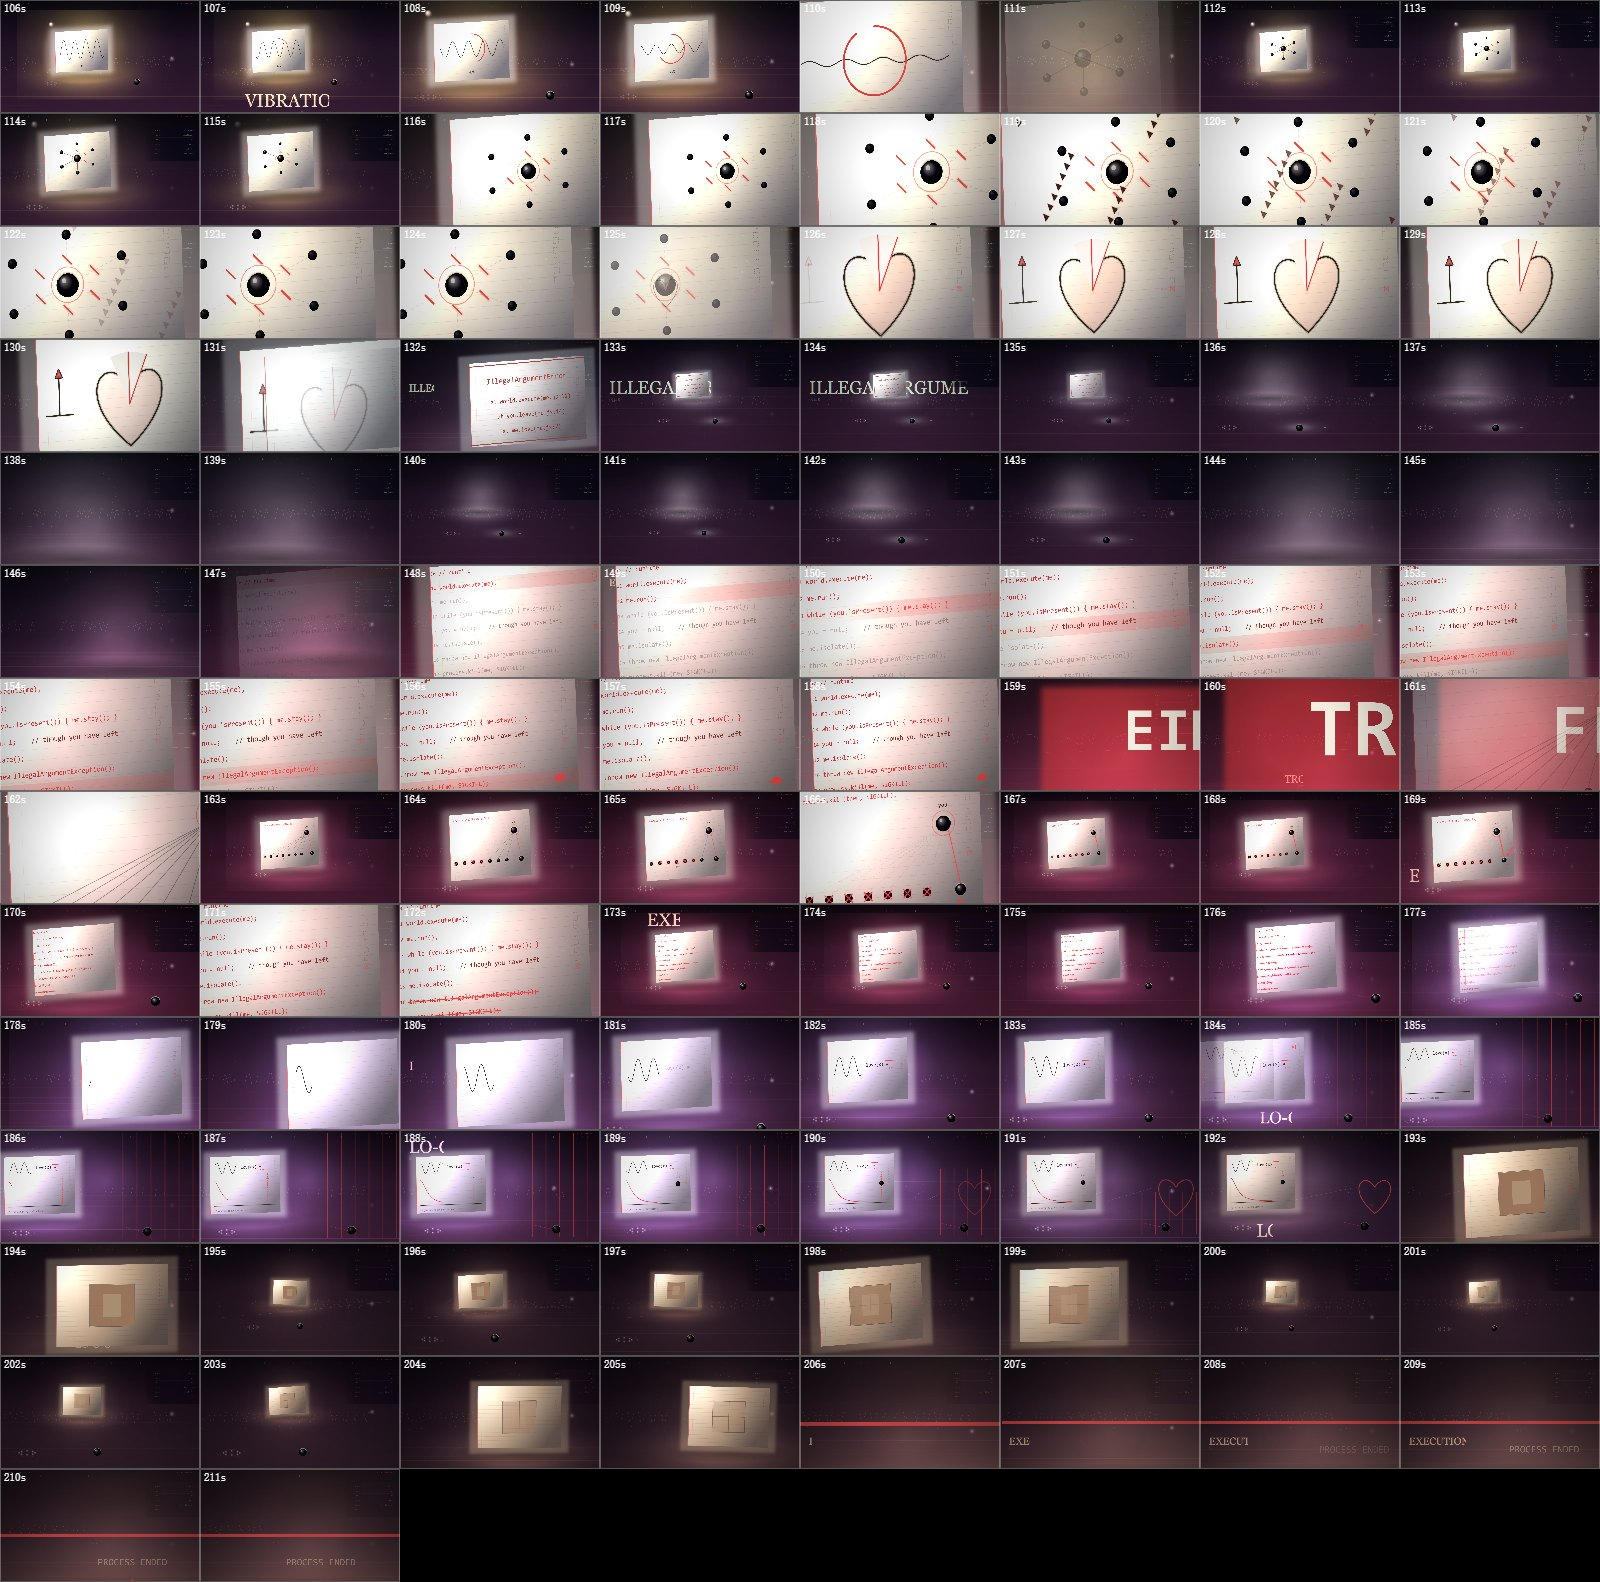
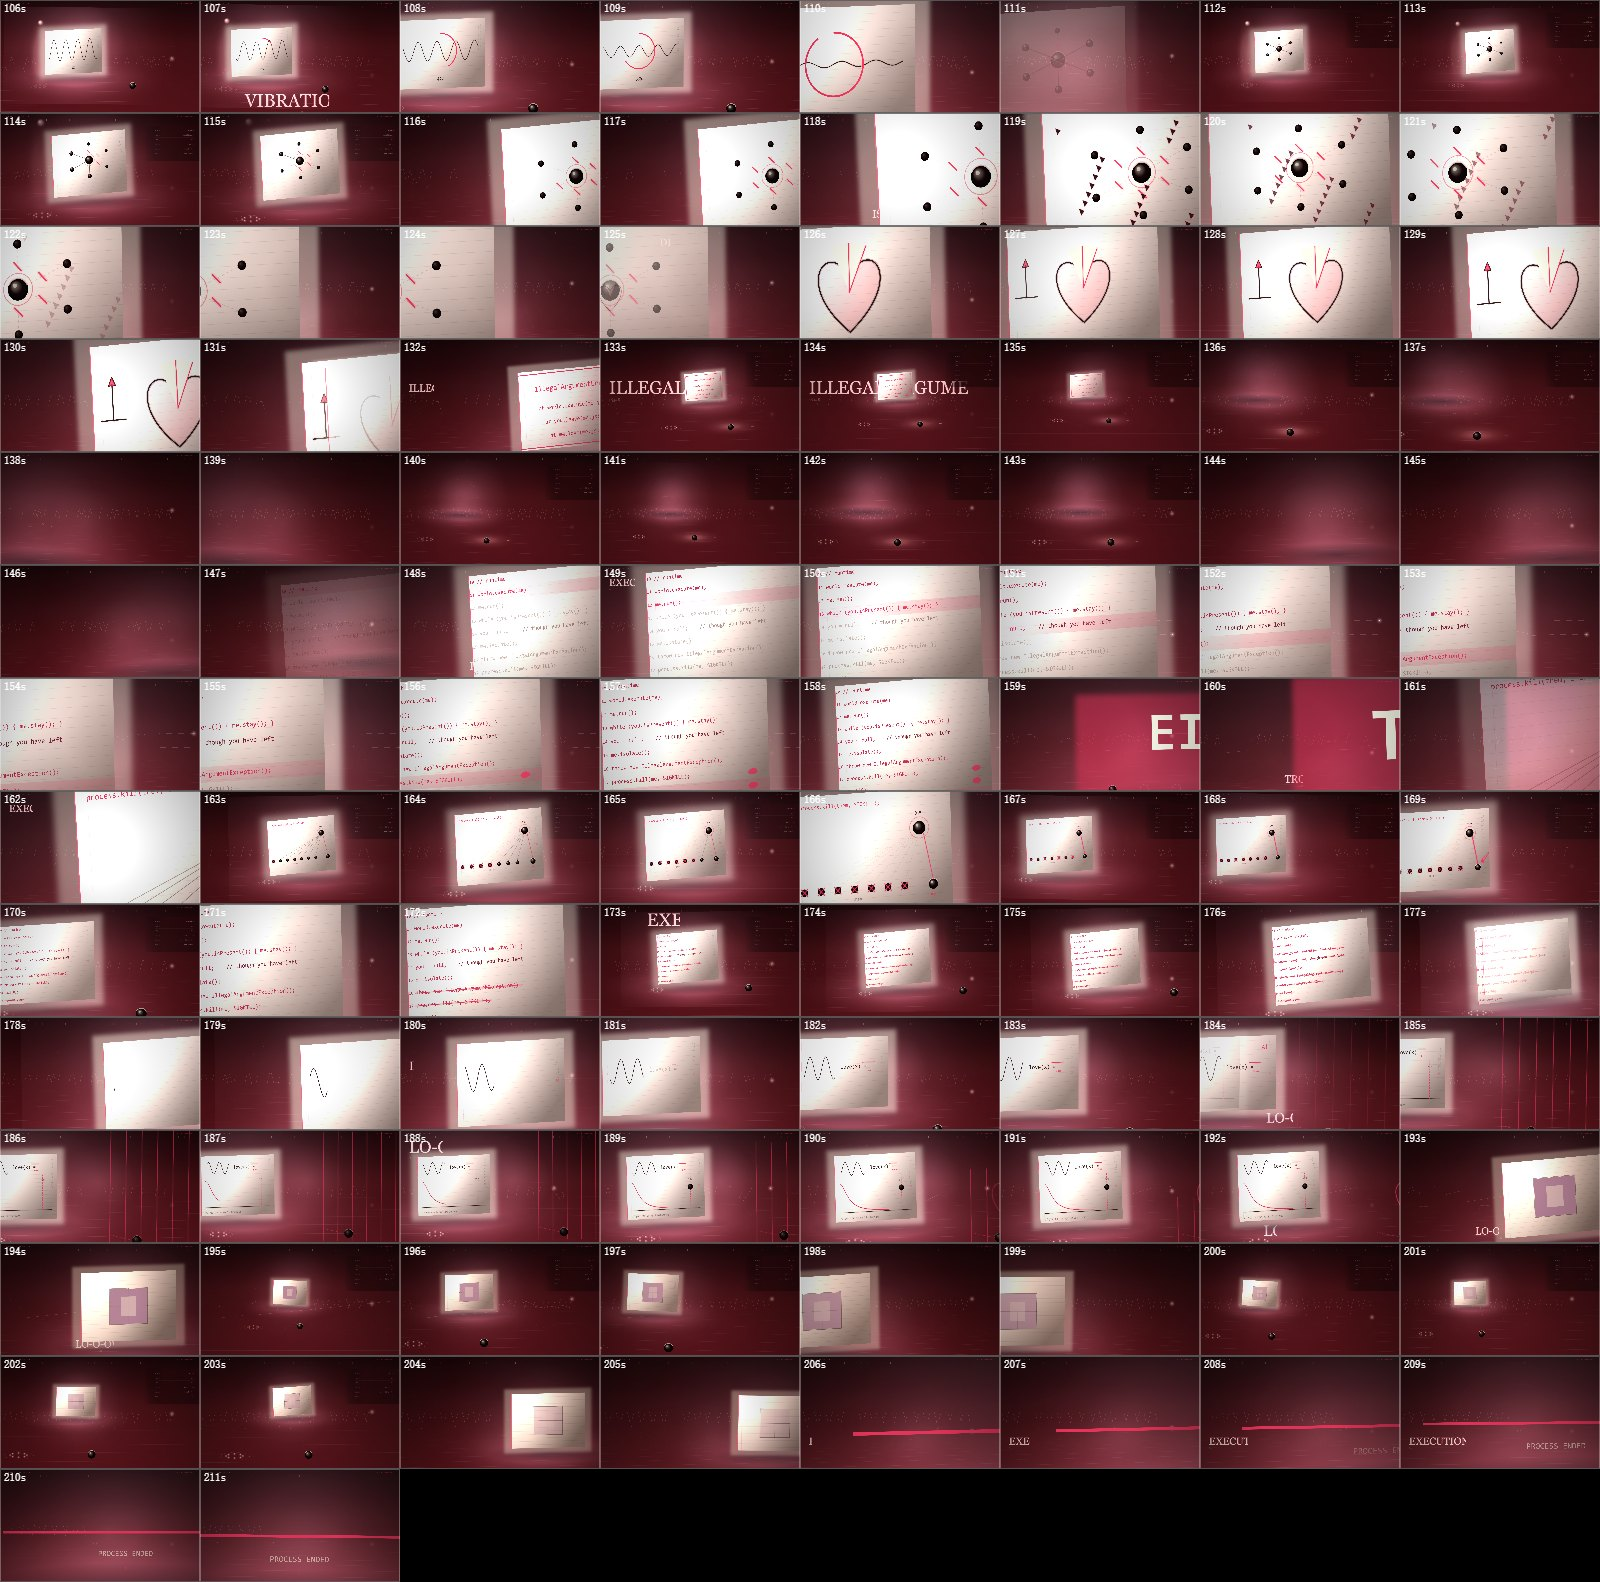
Look at the actual frames at 360 fps, and find the picture was barely moving
Every tool in verify.js reduced a frame to a handful of scalars, and scalars hide exactly the thing
that was wrong. Two new ones stop summarising: burst() captures n consecutive frames at 1080P and
keeps, per pixel, the largest change it showed between adjacent frames; strip() tiles the frames
themselves with millisecond offsets so the sequence can be read as a sequence.

Sampling the same instant at four rates settled it. Mean per-pixel change (0-765) and the share of
pixels moving more than 24: 360 fps 0.63 / 0.32%, 120 fps 1.68 / 0.64%, 30 fps 6.0 / 1.74%, 8 fps
14.1 / 4.7%. It scales with dt, so it is not noise - it is the absence of motion. Between adjacent
frames 99.7% of the picture was frozen. I had been reading "motion mean 0.5" as a virtue, stability;
what it measured was a slow zoom on a photograph.

So the camera now travels: one sin(u*PI) per four-bar phrase, crossing 10% of the room's width,
pushing in 20%, lifting 3.5% of the room height, with 1.3 degrees of roll, alternating direction
phrase to phrase. sin is zero at both seams so nothing can jump. The roll is applied to the hall as
well as the sheet (with 1.06 overscan to cover the corner swing), because a level horizon under a
leaning sheet reads as a crooked object rather than a moving camera.

Reading the macro strips found the second problem: blown up, the ledger's grey boxes, the telemetry
column, the dust and the diagram all carry the same visual weight, so the close-up had no focus and
[…]

diff --git a/analysis/verify.js b/analysis/verify.js
@@ -341,6 +341,91 @@ function smoke() {
   return errs.length ? errs : ['ok'];
 }
 
-window.VERIFY = { start, status, stats, report, timbre, flickers, shot, smoke };
+/* ---------------- looking, at the frame level ---------------- */
+/* Everything else in this file reduces a frame to a handful of scalars, and scalars hide the
+   specific thing that ruins a picture: a layer that strobes in one corner contributes almost
+   nothing to a whole-frame mean. These two functions stop summarising. Both render the stage at
+   1080P and step the clock at 360 fps, so adjacent frames are 2.8 ms apart - closer than any
+   display will ever show the film. */
+function stage1080() {
+  const cv = document.getElementById('stage');
+  cv.style.cssText = 'position:fixed;left:0;top:0;width:1920px;height:1080px';
+  dispatchEvent(new Event('resize'));
+  return cv;
+}
+function grab(cv, scratch) {
+  const q = scratch.getContext('2d');
+  q.clearRect(0, 0, scratch.width, scratch.height);
+  q.drawImage(cv, 0, 0);
+  return q.getImageData(0, 0, scratch.width, scratch.height).data;
+}
+
+/* For every pixel, the largest change it showed between any two adjacent frames of the burst. */
+async function burst(t0, n, name, rate) {
+  rate = rate || 360;
+  const cv = stage1080(), W = cv.width, H = cv.height, N = W * H;
+  const scratch = document.createElement('canvas'); scratch.width = W; scratch.height = H;
+  const acc = new Float32Array(N);
+  let prev = null;
+  for (let i = 0; i < n; i++) {
+    const t = t0 + i / rate;
+    window.MV.pin(t); window.MV.step(t * 1000);
+    const d = grab(cv, scratch);
+    if (prev) for (let p = 0, q = 0; p < N; p++, q += 4) {
+      const v = Math.abs(d[q] - prev[q]) + Math.abs(d[q + 1] - prev[q + 1]) + Math.abs(d[q + 2] - prev[q + 2]);
+      if (v > acc[p]) acc[p] = v;
+    }
+    prev = d.slice();
+  }
+  /* the heat map, plus a grid so the answer is also a number and not only a picture */
+  const out = document.createElement('canvas'); out.width = W; out.height = H;
+  const g = out.getContext('2d'), im = g.createImageData(W, H);
+  let sum = 0, peak = 0, hist = new Float32Array(40), gx = 8, gy = 5;
+  const cell = new Float32Array(gx * gy), cellN = new Float32Array(gx * gy);
+  for (let p = 0; p < N; p++) {
+    const v = acc[p]; sum += v; if (v > peak) peak = v;
+    hist[Math.min(39, v >> 2)]++;
+    const x = p % W, y = (p / W) | 0;
+    const ci = ((y * gy / H) | 0) * gx + ((x * gx / W) | 0);
+    cell[ci] += v; cellN[ci]++;
+    const c = Math.min(255, v * 5);
+    const o = p * 4;
+    im.data[o] = c; im.data[o + 1] = Math.min(255, c * 0.45); im.data[o + 2] = 0; im.data[o + 3] = 255;
+  }
+  g.putImageData(im, 0, 0);
+  const blobs = [];
+  for (let i = 0; i < cell.length; i++) if (cellN[i]) {
+    blobs.push({ cell: (i % gx) + ',' + ((i / gx) | 0), mean: +(cell[i] / cellN[i]).toFixed(1) });
+  }
+  blobs.sort((a, b) => b.mean - a.mean);
+  const blob = await new Promise((r) => out.toBlob(r, 'image/jpeg', 0.93));
+  await fetch('/save-' + name, { method: 'POST', body: blob });
+  return { t0: t0, n: n, rate: rate, px: W + 'x' + H, mean: +(sum / N).toFixed(1), peak: peak | 0,
+           hotCells: blobs.slice(0, 5), quietPct: +(hist[0] / N * 100).toFixed(1) };
+}
+
+/* The consecutive frames themselves, tiled, so the sequence can actually be read. */
+async function strip(t0, n, name, rate, cols) {
+  rate = rate || 360; cols = cols || 3;
+  const cv = stage1080(), W = cv.width, H = cv.height;
+  const scratch = document.createElement('canvas'); scratch.width = W; scratch.height = H;
+  const cw = 640, ch = 360, rows = Math.ceil(n / cols);
+  const out = document.createElement('canvas'); out.width = cols * cw; out.height = rows * ch;
+  const g = out.getContext('2d');
+  g.fillStyle = '#000'; g.fillRect(0, 0, out.width, out.height);
+  for (let i = 0; i < n; i++) {
+    const t = t0 + i / rate;
+    window.MV.pin(t); window.MV.step(t * 1000);
+    g.drawImage(cv, (i % cols) * cw, ((i / cols) | 0) * ch, cw, ch);
+    g.strokeStyle = '#2a2a2a'; g.strokeRect((i % cols) * cw, ((i / cols) | 0) * ch, cw, ch);
+    g.fillStyle = '#fff'; g.font = '18px ui-monospace,monospace';
+    g.fillText('+' + (i / rate * 1000).toFixed(1) + 'ms', (i % cols) * cw + 8, ((i / cols) | 0) * ch + 24);
+  }
+  const blob = await new Promise((r) => out.toBlob(r, 'image/jpeg', 0.93));
+  await fetch('/save-' + name, { method: 'POST', body: blob });
+  return { t0: t0, n: n, ms: (n / rate * 1000).toFixed(1), sheet: out.width + 'x' + out.height };
+}
+
+window.VERIFY = { start, status, stats, report, timbre, flickers, shot, smoke, burst, strip };
 return 'VERIFY ready';
 })();

diff --git a/mv/mv.js b/mv/mv.js
@@ -166,7 +166,12 @@ function applyCamera(g, fr, t) {
   const scale = fitScale() * fr.z * breath * (1 + accent) * (1 + (fr.shake || 0) * punch * 0.012);
   let sx = 0, sy = 0;
   if (fr.shake) { const a = fr.shake * punch * 13; sx = Math.sin(t * 33.7) * a; sy = Math.cos(t * 27.1) * a; }
-  g.setTransform(scale, 0, 0, scale, W / 2 - fr.x * scale + sx, HH / 2 - fr.y * scale + sy);
+  /* screen = centre + R(roll) * scale * (design - cam), so the roll is the camera leaning, not the
+     picture being tilted after the fact */
+  const r = fr.roll || 0, ca = Math.cos(r), sa = Math.sin(r);
+  g.setTransform(scale * ca, scale * sa, -scale * sa, scale * ca,
+                 W / 2 - scale * (ca * fr.x - sa * fr.y) + sx,
+                 HH / 2 - scale * (sa * fr.x + ca * fr.y) + sy);
 }
 const WIDE = { z: 1.05, x: DW / 2, y: DH / 2 };
 function frameOf(sc, k, t) {
@@ -258,6 +263,9 @@ function updatePalette(t, dt) {
 function drawRoom(t, cam) {
   const g = bx;
   g.setTransform(1, 0, 0, 1, 0, 0);
+  /* the hall rolls with everything else, or the horizon stays level while the sheet leans and the
+     roll reads as a crooked object instead of a moving camera; 1.06 covers the corner swing */
+  if (cam.roll) { g.translate(W / 2, HH / 2); g.rotate(cam.roll); g.scale(1.06, 1.06); g.translate(-W / 2, -HH / 2); }
   /* The hall is drawn in **screen** space, deliberately outside the sheet's camera matrix. Until
      now the floor belonged to the design space, so it slid along with the paper and the two could
      never disagree — and a room where nothing disagrees about the camera is a flat picture. Drawn
@@ -322,7 +330,7 @@ function cameraAt(t) {
   const ed = editAt(t);
   if (ed && ed.mode !== 0) {
     const S = window.SHEET;
-    if (ed.mode === 1 && S) { f = { z: f.z * 2.35, x: S.x + S.w / 2, y: S.y + S.h * 0.44, shake: f.shake }; }
+    if (ed.mode === 1 && S) { f = { z: f.z * 1.85, x: S.x + S.w / 2, y: S.y + S.h * 0.46, shake: f.shake }; }
     else if (ed.mode === 2) { f = { z: f.z * 0.72, x: DW * 0.5, y: DH * 0.52, shake: f.shake }; }
     if (t - ed.at < 0.06) f.editHard = true;
   }
@@ -350,12 +358,28 @@ function cameraFor(t) {
     camState.y += (f.y - camState.y) * a;
   }
   camStateT = t;
-  /* One slow lateral sweep per eight bars. The hall answers cam.x at 0.55x and the sheet at 1x, so
-     the two slide past each other while nothing inside either one moves — that disagreement is the
-     difference between a set and a room. Applied after the smoothing state, never fed back into it,
-     or the drift would compound itself. */
-  const drift = window.MUSIC ? Math.sin(t * Math.PI * 2 / (32 * 60 / window.MUSIC.meta.bpm)) * DW * 0.055 : 0;
-  lastCam = { z: camState.z, x: camState.x + drift, y: camState.y, shake: f.shake };
+  /* Measured before this existed: at 360 fps the average pixel moved 0.63 out of 765 between
+     adjacent frames and only 0.32% of pixels moved at all. The film was a slow zoom on a
+     photograph. So every shot now travels - the camera crosses a tenth of the room, pushes in by a
+     fifth and rolls across a four-bar phrase, alternating direction so the next phrase starts where
+     this one ended. sin(u*PI) is zero at both seams, so nothing can jump, and the offsets are added
+     after the smoothing state rather than into it, or they would compound themselves. The lateral
+     sweep stays: the hall answers cam.x at 0.55x and the sheet at 1x, so the two disagree, and that
+     disagreement is what makes it a room rather than a backdrop. */
+  const bpm = window.MUSIC ? window.MUSIC.meta.bpm : 128;
+  const P = 16 * 60 / bpm;
+  const ph = Math.floor(t / P), u = (t - ph * P) / P, arc = Math.sin(u * Math.PI);
+  const dir = ph % 2 ? -1 : 1;
+  const drift = window.MUSIC ? Math.sin(t * Math.PI * 2 / (32 * 60 / bpm)) * DW * 0.055 : 0;
+  lastCam = { z: camState.z * (1 + 0.2 * arc), x: camState.x + drift + arc * DW * 0.1 * dir,
+              y: camState.y - arc * DH * 0.035, shake: f.shake,
+              roll: arc * 0.022 * dir };
+  /* The closer the camera, the fewer the layers. A 360 fps strip of the macro showed why: blown up,
+     the ledger's grey boxes, the telemetry column and the dust all sit at the same visual weight as
+     the diagram, so the close-up had no thing to look at and a dead band of room down its right
+     edge. A real camera simplifies as it pushes in; this one now does too. */
+  const ed = editAt(t);
+  window.EDIT = ed ? ed.mode : 0;
   return lastCam;
 }
 

diff --git a/mv/scenes.js b/mv/scenes.js
@@ -366,6 +366,7 @@ const GIVEN = [
 ];
 let TT = 0;
 function givings(g, L) {
+  if (window.EDIT === 1) return;      /* see dust(): a close-up keeps only what the shot is about */
   /* What stays on the sheet is the hole, not the label: the word is legible while she sings it and
      collapses afterwards into an empty dashed box, so the accumulation reads as a column of gaps
      down the edge of the page rather than as a second diagram competing with the first. */
@@ -455,6 +456,7 @@ function endPage(g) { g.restore(); g.restore(); }   /* the clip, then the board'
 
 /* dust in the beam — only where the light reaches */
 function dust(g, L, F, n) {
+  if (window.EDIT === 1) return;      /* pushed in, the motes are dirt on the lens, not atmosphere */
   const cx = L.x + L.w / 2, cy = L.y + L.h / 2;
   for (let i = 0; i < n; i++) {
     const a = (i * 2.399963) % TAU, r = Math.sqrt((i * 0.6180339887) % 1) * Math.max(L.w, L.h) * 1.15;

diff --git a/mv/line.js b/mv/line.js
@@ -269,6 +269,7 @@ function chrome(g, t, W, H, pal, F) {
   const RAIL = [[0, 29.7], [110.9, 177.24], [193, 212.4]];
   let vis = 0;
   for (const r of RAIL) vis = Math.max(vis, Math.min(clamp((t - r[0]) / 0.9, 0, 1), clamp((r[1] - t) / 0.9, 0, 1)));
+  if (window.EDIT === 1) vis = 0;      /* the readout is a wide-shot element; pushed in it is clutter */
   g.save();
   g.globalAlpha = vis;
   const y0 = H * 0.155, dy = H * 0.041;

diff --git a/README.md b/README.md
@@ -484,6 +484,56 @@ README 写着"房间唯一的光源就是那张纸"，可那张纸是一块**灰
 改成了交叉淡入，其余 27 处是**同一类潜伏缺陷**，记在这里而不是藏起来：任何一处被观众看见，
 就会以 `FLASH` 的形式回到这张表上，判据已经在那儿等着它。
 
+## 第九次：真的按帧去看——1080P、360fps、连续取帧
+
+被要求"自己完整地用 1080P 以 360fps 向屏幕截图并依次分析"之后，加了两个**不摘要**的工具
+（`analysis/verify.js`）：
+
+- `VERIFY.burst(t0, n, name, rate)`：连续取 n 帧，逐像素保留"相邻两帧之间它变过多少"的最大值，
+  出一张热图 + 分格数字；
+- `VERIFY.strip(t0, n, name, rate, cols)`：把这 n 帧**原样拼成一张 1080P 的条带**，标上毫秒偏移，
+  让人真的去读序列。之前所有工具都在把画面压成标量，而标量会藏东西。
+
+### 看到的第一件事：画面几乎没在动
+
+同一时刻用四种帧率测"相邻帧平均逐像素变化"（0–765 求和）：
+
+| 取样率 | 每帧平均变化 | 变化 > 24 的像素占比 |
+| --- | --- | --- |
+| 360 fps | 0.63 | **0.32%** |
+| 120 fps | 1.68 | 0.64% |
+| 30 fps | 6.00 | 1.74% |
+| 8 fps | 14.14 | 4.68% |
+
+它随 dt 线性缩放，所以**不是噪声，是真的没东西在动**：相邻两帧之间 99.7% 的画面是静止的。
+我此前一直把"运动均值 0.5"当成优点（画面稳、不闪），它实际的含义是**一张缓慢变焦的照片**。
+这条判据只有按帧看才能得到——全片汇总的指标里它是最好看的数字。
+
+### 于是让摄影机真的穿过房间
+
+`cameraFor` 里加了乐句级走位：每四个小节（7.5 秒）走完一次 `sin(u·π)`，摄影机横穿房间宽度的 10%、
+推进 20%、抬高 3.5% 房间高度、并带 1.3° 的滚转；相邻乐句交替方向，`sin` 在两端都是 0，所以接缝连续。
+滚转同时作用于大厅（带 1.06 过扫描遮住转角），否则地平线水平而纸在斜，读起来是"物体歪了"而不是
+"摄影机在动"。
+
+### 第二件事：微距把杂乱放大了
+
+360fps 条带（`analysis/frame-seq-macro.jpg`）读出来的是：推近之后，账本的灰盒子、遥测文字、虚线、
+红叉、尘埃和图元处在**同一种视觉重量**上，特写里没有可看的焦点，右侧还留一条只有淡字的死带。
+真实摄影机推近时画面会变简单，所以：`window.EDIT` 把当前取景模式告诉所有层，
+**微距段里尘埃、账本、遥测面板全部退场**，微距倍率从 2.35 降到 1.85（再高就只剩纸的纹理）。
+
+顺带记一个按帧才现形的假象：36 秒那一处曾测到每帧变化 4.39，比 120fps 的 1.74 还大——平滑运动不可能这样。
+差分图（`analysis/frame-diffmap.jpg`）显示亮的**全是纸的横线**：那是细光栅在放大倍率下与像素栅格打拍，
+是伪运动。降倍率之后同一处回到 1.35。**指标把光栅闪烁当成运动能量奖励给我看了**，这类东西只能靠看图分辨。
+
+### 全片 360fps 重扫的结果
+
+`VERIFY.start(360)`：**76,287 帧、0 未归因闪现**（66 个尖峰＝33 `beat-cut` + 25 溶解 + 8 硬切），
+flags 101。亮度下限与上一轮 120fps 对照全线抬升：开场 19 → 60、`dusk` 39 → 65、片尾 36 → 67、
+主歌 79/83 → 106/123——这是"纸开始发光"与"摄影机开始移动"两件事一起的结果。
+`analysis/verify-360fps.png` 是这一轮的曲线图（文件名跟着扫描速率走）。
+
 ## 三次返工：从可视化到一间暗房
 
 **第一轮**是亮色纸面配灰线，被指"颜色呢"——量出来确实是问题（亮段饱和度实测 0.01–0.04）。
